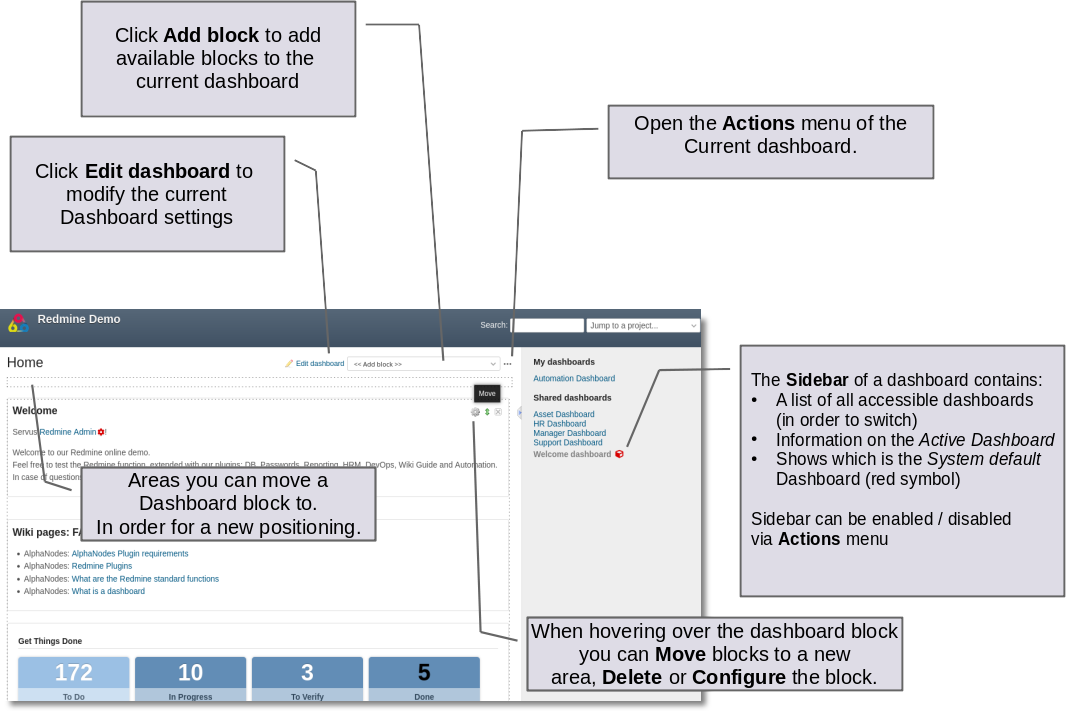
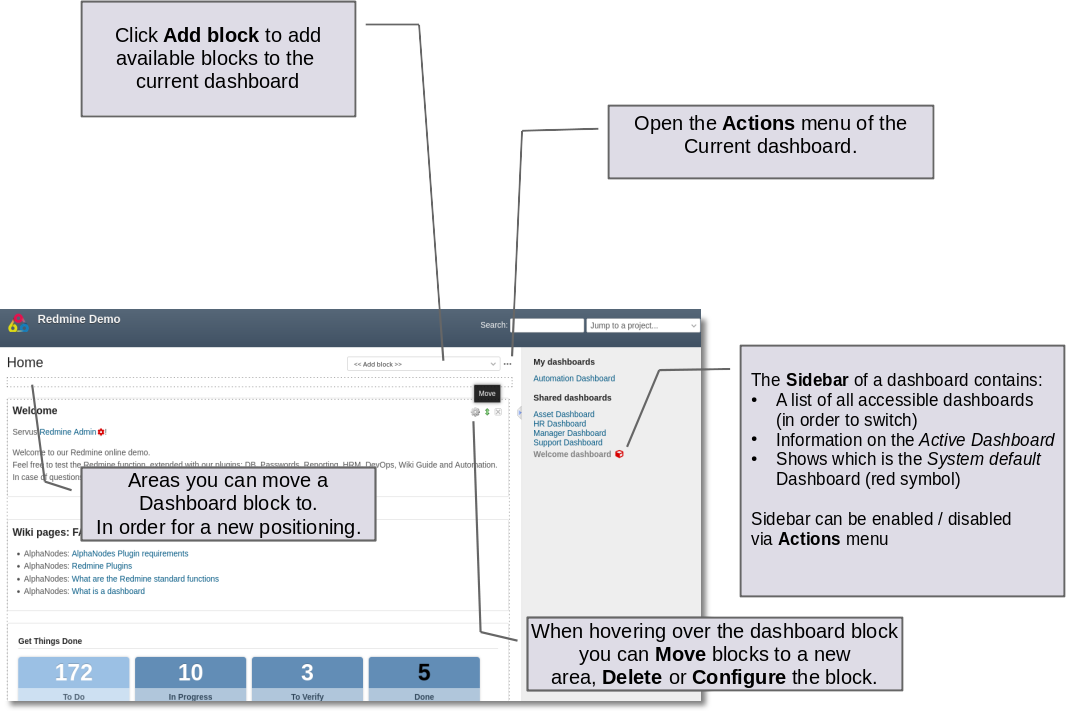
update docu for dashboard

Changed region(s): [[0.0, 0.1857, 0.2786, 0.3713], [0.2786, 0.4951, 0.3096, 0.526]]

diff --git a/docs/dashboards.rst b/docs/dashboards.rst
@@ -54,9 +54,9 @@ When accessing Redmine you probably get redirected to the *Home* page of the sys
 
 What you can do here is:
 
-*  use the "Edit dashboard" link for modifications
+*  "Edit dashboard" in the "Actions" menu for modifications
 *  add a "New dashboard"
-*  Enable sidebar or Disable sidebar
+*  Enable or Disable sidebar
 *  Switch to other existing dashboards
 *  Add a dashboard block
 *  Move, delete or configure added dashboard blocks
@@ -65,7 +65,7 @@ What you can do here is:
 Edit Dashboard
 ++++++++++++++
 
-Users with appropriate permission can edit an existing dashboard by clicking the "Edit dashboard" link to open the edit window.
+Users with appropriate permission can edit an existing dashboard by clicking the "Edit dashboard" link in the "Actions" menu to open the edit window.
 
 .. figure::  images/dashboard-edit.png
    :align:   center
@@ -184,7 +184,7 @@ What you can do here is:
 Edit project dashboard
 ++++++++++++++++++++++
 
-Users with appropriate permission can edit an existing dashboard by clicking the "Edit dashboard" link to open the edit window. What fields are displayed also depends on the permission the role your user has.
+Users with appropriate permission can edit an existing dashboard by clicking the "Edit dashboard" link in the "Actions" menu to open the edit window. What fields are displayed also depends on the permission the role your user has.
 
 .. figure::  images/dashboard-edit-project.png
    :align:   center
